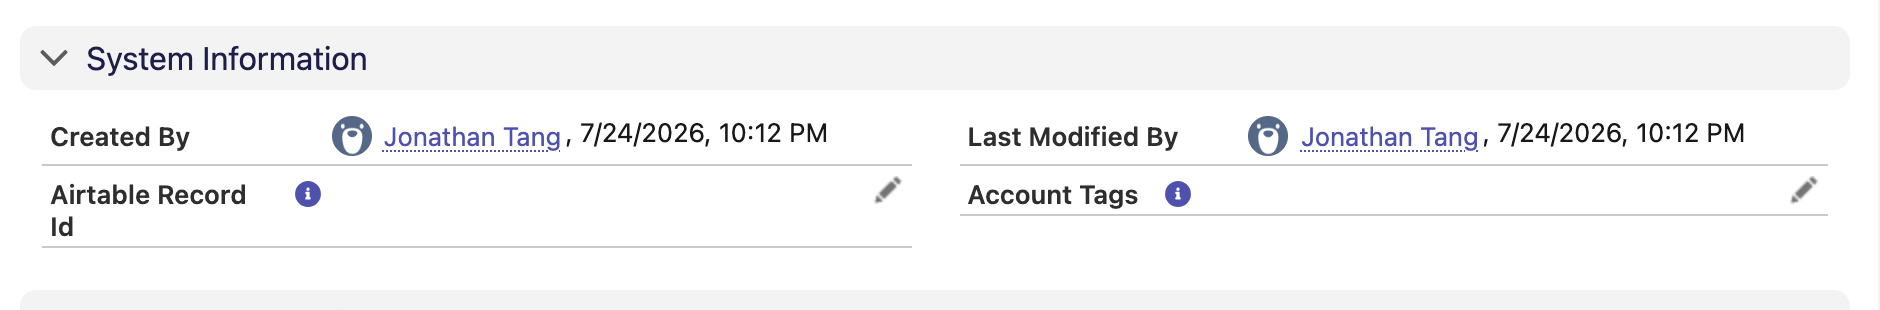
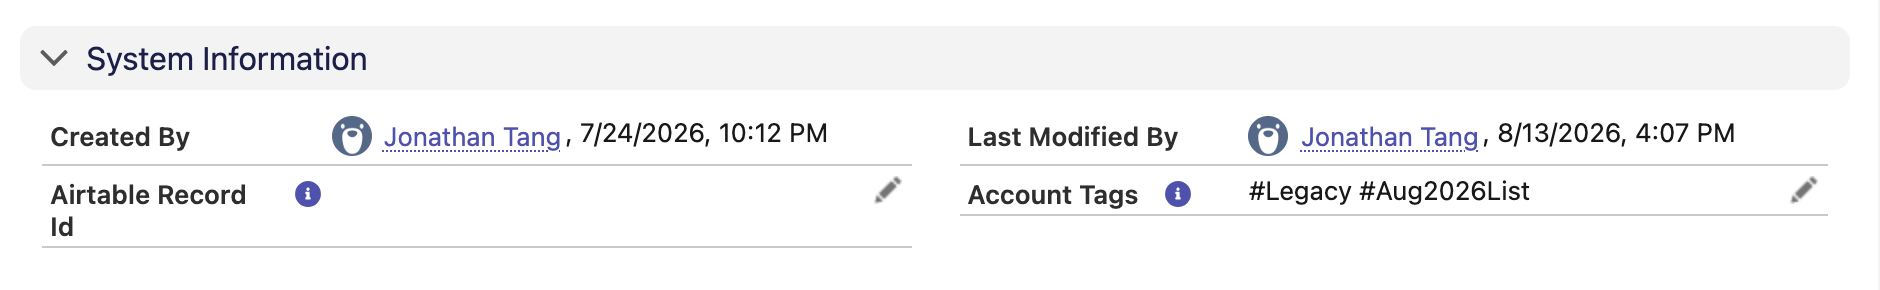
Update: Account tags for manager reports

Changed region(s): [[0.0, 0.3724, 0.9872, 0.8069], [0.0, 0.1552, 0.216, 0.2483], [0.0309, 0.8379, 0.4936, 0.869]]

diff --git a/account-tags-for-manager-reports/index.html b/account-tags-for-manager-reports/index.html
@@ -198,7 +198,7 @@
 <header class="hero">
   <div class="hero-eyebrow">Account tagging &middot; Account Managers</div>
   <h1 class="hero-title">Agencies can be labeled, and manager reports are ready to fill</h1>
-  <p class="hero-subtitle">A first slice in the test environment: the tag field and two empty reports. Lists are not filled yet.</p>
+  <p class="hero-subtitle">A first slice in the test environment: the tag field and two manager reports, filled with sample data so you can see the shape.</p>
   <div class="hero-badges">
     <span class="status-badge passed">&#10003; Tested in the test environment</span>
     <span class="status-badge pending">&#8226; Awaiting your approval</span>
@@ -219,7 +219,7 @@
 
   <div class="content-card summary">
     <h2>What changed</h2>
-    <p>Three things are in the test environment. Tag values and the account list are still waiting on Chris.</p>
+    <p>Three things are in the test environment. Sample tags and managers are on the eight test agencies only. The real list is still waiting on Chris.</p>
     <ul class="change-list">
       <li>
         <span class="change-check">&#10003;</span>
@@ -238,7 +238,7 @@
       <li>
         <span class="change-check">&#10003;</span>
         <span class="change-text">
-          <span class="what">Two empty manager reports</span>
+          <span class="what">Two manager reports</span>
           <span class="detail">AM Account Book groups agencies by Spark Account Manager. Account Tags Inventory is a simple list. Neither report filters on a tag yet.</span>
         </span>
       </li>
@@ -247,7 +247,7 @@
 
   <div class="gallery-intro">
     <h2>See it in action</h2>
-    <p>Each shot is the real screen in the test environment. Click any image to enlarge. Tags are blank on purpose until the real list arrives.</p>
+    <p>Each shot is the real screen in the test environment. Click any image to enlarge. Tag values and manager names are sample data, not the production book.</p>
   </div>
 
   <figure class="shot">
@@ -259,14 +259,14 @@
       </div>
     </div>
     <div class="shot-look">
-      <strong>What to look for:</strong> Account Tags sits in the right column of System Information, under Last Modified By, next to Airtable Record Id. It is empty. The pencil means an admin can edit it.
+      <strong>What to look for:</strong> Account Tags sits in the right column of System Information, under Last Modified By. Sample values #Legacy and #Aug2026List are saved. The pencil means an admin can edit it.
     </div>
     <div class="shot-figure">
-      <button type="button" class="shot-zoom" onclick="openLightbox('screenshots/01-account-tags-system-information.png', 'Account Tags sits in System Information at the bottom of Details. Empty. An admin can edit.')">
-        <img src="screenshots/01-account-tags-system-information.png" alt="Agency record Details tab showing Account Tags empty in System Information" loading="lazy">
+      <button type="button" class="shot-zoom" onclick="openLightbox('screenshots/01-account-tags-system-information.png', 'Account Tags sits in System Information at the bottom of Details. Sample tags saved. An admin can edit.')">
+        <img src="screenshots/01-account-tags-system-information.png" alt="Agency record System Information showing Account Tags with sample hashtags" loading="lazy">
         <span class="zoom-hint">&#128269; Click to enlarge</span>
       </button>
-      <div class="shot-caption">System Information at the bottom of Details. Help icon and edit pencil are both present.</div>
+      <div class="shot-caption">System Information at the bottom of Details. Sample tags, help icon, and edit pencil.</div>
     </div>
   </figure>
 
@@ -279,14 +279,14 @@
       </div>
     </div>
     <div class="shot-look">
-      <strong>What to look for:</strong> Agencies group by Spark Account Manager. Account Tags is a column, not a filter. Every tag cell is blank because lists are not loaded yet. The test environment has no managers assigned, so all eight agencies sit in one blank group.
+      <strong>What to look for:</strong> Agencies group by Spark Account Manager: Chris Spagnuolo (4) and Jonathan Tang (4). Account Tags is a column, not a filter. Sample hashtags are filled so the report is readable.
     </div>
     <div class="shot-figure">
-      <button type="button" class="shot-zoom" onclick="openLightbox('screenshots/02-am-account-book.png', 'AM Account Book groups by Spark Account Manager. Account Tags is a column, not a filter. Tags blank on purpose.')">
-        <img src="screenshots/02-am-account-book.png" alt="AM Account Book report grouped by Spark Account Manager with a blank Account Tags column" loading="lazy">
+      <button type="button" class="shot-zoom" onclick="openLightbox('screenshots/02-am-account-book.png', 'AM Account Book groups by Spark Account Manager. Account Tags is a column, not a filter. Sample tags filled.')">
+        <img src="screenshots/02-am-account-book.png" alt="AM Account Book grouped by Chris Spagnuolo and Jonathan Tang with sample Account Tags" loading="lazy">
         <span class="zoom-hint">&#128269; Click to enlarge</span>
       </button>
-      <div class="shot-caption">Eight test agencies. Tag column present. No tag filter applied.</div>
+      <div class="shot-caption">Eight test agencies in two manager groups. No tag filter applied.</div>
     </div>
   </figure>
 
@@ -299,21 +299,21 @@
       </div>
     </div>
     <div class="shot-look">
-      <strong>What to look for:</strong> A flat list of agencies with Account Tags as a column. Same blank tags. No tag filter.
+      <strong>What to look for:</strong> A flat list of the same eight agencies. Spark Account Manager and Account Tags are both filled with sample values. No tag filter.
     </div>
     <div class="shot-figure">
-      <button type="button" class="shot-zoom" onclick="openLightbox('screenshots/03-account-tags-inventory.png', 'Inventory list with Account Tags column blank. No tag filter.')">
-        <img src="screenshots/03-account-tags-inventory.png" alt="Account Tags Inventory report listing agencies with a blank Account Tags column" loading="lazy">
+      <button type="button" class="shot-zoom" onclick="openLightbox('screenshots/03-account-tags-inventory.png', 'Inventory list with sample Account Tags and managers. No tag filter.')">
+        <img src="screenshots/03-account-tags-inventory.png" alt="Account Tags Inventory listing agencies with sample tags and managers" loading="lazy">
         <span class="zoom-hint">&#128269; Click to enlarge</span>
       </button>
-      <div class="shot-caption">Same eight agencies. Account Tags column is there and empty.</div>
+      <div class="shot-caption">Same eight agencies. Tags and managers are sample data.</div>
     </div>
   </figure>
 
   <div class="content-card">
     <h2>Where this stands</h2>
     <div class="callout callout-success">
-      <p><strong>Tested in the test environment.</strong> The field shows on the agency page. Both empty reports run. Tag values were not loaded, on purpose.</p>
+      <p><strong>Tested in the test environment.</strong> The field shows on the agency page. Both reports run with sample tags and two manager groups. This is not the production book.</p>
     </div>
     <div class="callout callout-action">
       <p><strong>Action needed from you:</strong> Approve this first slice. Then send the Account Manager roster (Kim vs Stephanie) and the matchable target account list so we can fill tags and clone per-manager reports. Reply in this chat or on the 1:1 follow-up thread.</p>

diff --git a/index.html b/index.html
@@ -35,7 +35,7 @@
 
   <div class="doc">
     <div class="doc-title"><a href="account-tags-for-manager-reports/">Account tags for manager reports</a></div>
-    <div class="doc-meta">August 13, 2026 - First slice of Account Tags and empty manager reports, with screenshots from the test environment. List fill still waiting on Chris.</div>
+    <div class="doc-meta">August 13, 2026 - First slice of Account Tags and manager reports, with sample data in the test environment. Real list still waiting on Chris.</div>
   </div>
 
   <div class="doc">
